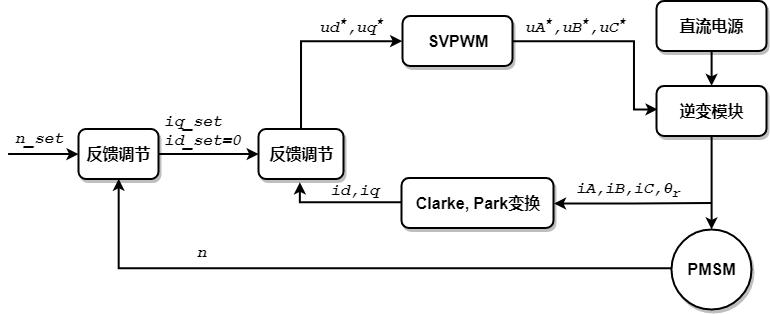
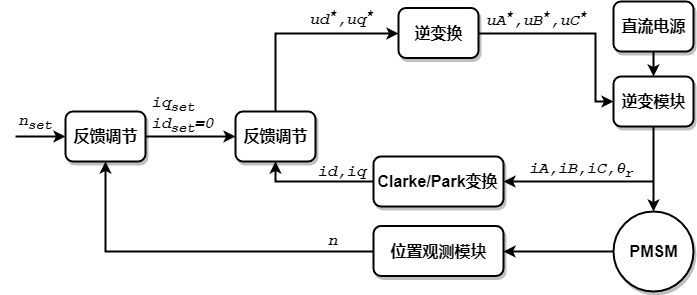
add posts

Changed region(s): [[0.0, 0.0, 1.0, 1.0]]

diff --git a/source/_posts/笔记/电机控制之SVPWM.md b/source/_posts/笔记/电机控制之SVPWM.md
@@ -413,3 +413,7 @@ $$
 ---
 # 结语
 SVPWM原理的讲解到这就结束，具体如何在硬件(如：DSP、FPGA、IGBT、MOSFET等)上实现，这里就不再详细说了，毕竟不同的平台，方法不尽相同。纸上的东西终究是理论，看别人说如何如何，不如自己动手实践。
+最附一个经典的SVPWM控制结构图，如[图4-1](#图4-1)所示：
+
+<span id = "图4-1"></span>
+> ![图4-1 SVPWM控制结构图](4-01.png)

diff --git a/source/_drafts/电机控制之滑模控制.md b/source/_drafts/电机控制之滑模控制.md
@@ -3,7 +3,7 @@ title: 电机控制之滑模控制
 categories:
   - 笔记
 mathjax: true
-date: 2017-07-20 19:34:12
+date: 2017-10-30 19:34:12
 tags: 
  - 电机控制
 ---
